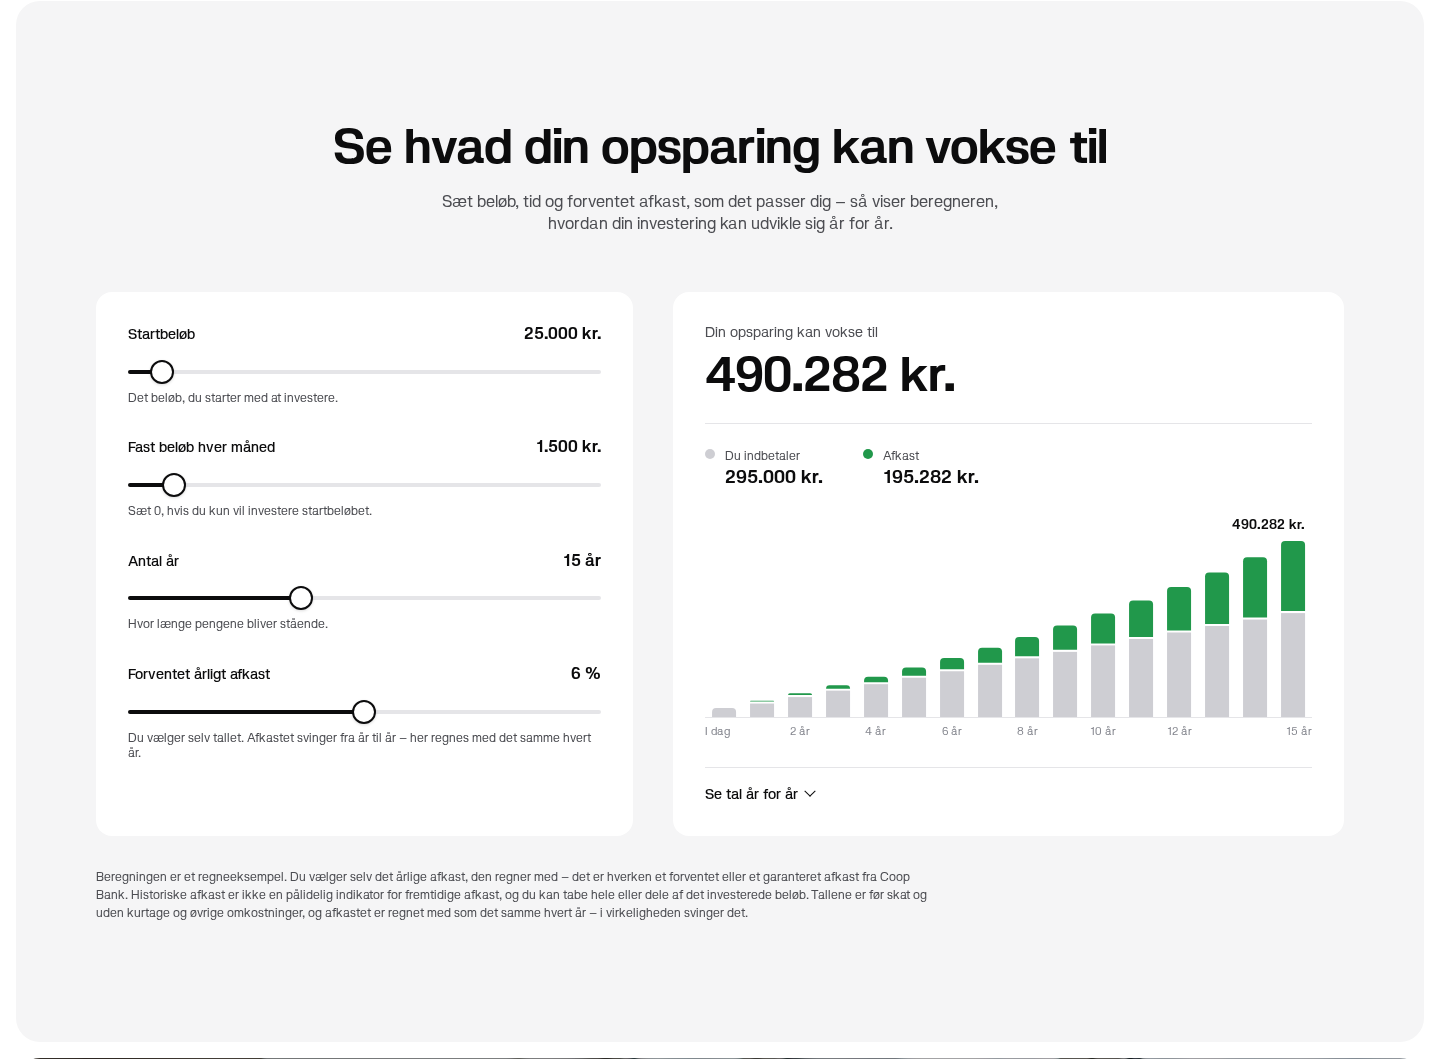
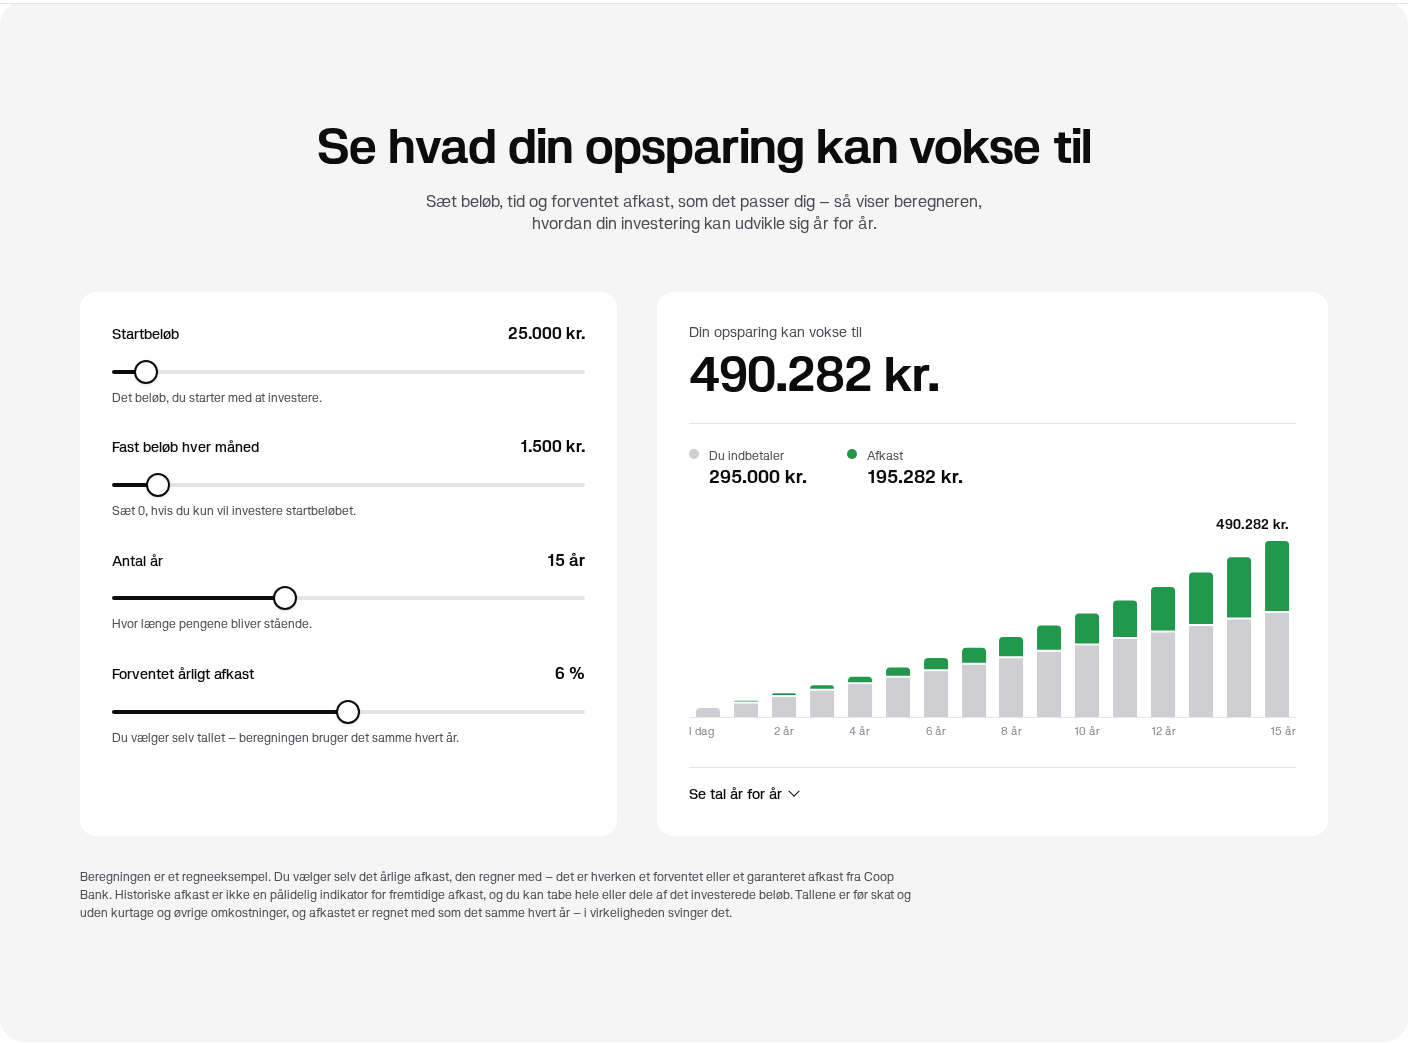
Giv beregneren samme luft som sidens øvrige sektioner
Sektionen brugte 0 0 16px - sidens tætteste afstand, tænkt til paneler der
skal støde op til hinanden. Den ligger nu på 96px 0 120px (64/80 på mobil),
som er den afstand coopbank.dk selv bruger, hvor sektionerne har plads om
sig, f.eks. "Download Coop Bank Investering".

Målt på den rigtige side: 112 px hvidt over panelet og 120 px under på
desktop, 80 px begge steder på mobil. Panelets egen indvendige polstring er
uændret, så den stadig matcher nabopanelet præcis.

Billederne i dokumentationen er taget om på den rigtige side med den nye
afstand.

Claude-Session: https://claude.ai/code/session_01UCfvjyKCTaD2EhHEWNgm67

diff --git a/investering/afkastberegner.html b/investering/afkastberegner.html
@@ -42,7 +42,8 @@
   --cbx-radius-card:16px;
   font-family:Porteron,Arial,sans-serif;
   color:var(--cbx-body);
-  padding:0 0 16px;
+  /* samme luft som sidens øvrige sektioner med plads om sig */
+  padding:96px 0 120px;
   -webkit-font-smoothing:antialiased;
 }
 .cbx-section *,.cbx-section *::before,.cbx-section *::after{box-sizing:border-box}
@@ -177,6 +178,7 @@
   .cbx-head{margin-bottom:40px}
 }
 @media screen and (max-width:767px){
+  .cbx-section{padding:64px 0 80px}
   .cbx-container{padding:0}
   .cbx-panel{padding:80px 16px}
   .cbx-card{padding:24px}

diff --git a/investering/README.md b/investering/README.md
@@ -84,6 +84,7 @@ stilarter, ikke gættet:
 | Overskrift | 48 px / 36 px på mobil, vægt 600, `letter-spacing −0.02em` |
 | Brødtekst | `#4c4d52` |
 | Container | max 1920 px, 16 px sidepadding — samme bredde som nabosektionerne |
+| Afstand om sektionen | 96/120 px, 64/80 px på mobil — sidens egen luftige sektionsafstand |
 
 Grafens to farver er brandfarver: afkast i `green-600 #21984b`, indbetalt i
 `neutral-200 #ceced3`. Parret er kontrolleret for farveblindhed (ΔE 24 protan,
@@ -114,6 +115,8 @@ Chromium via Playwright, både alene og indsat i en lokal kopi af den rigtige
   kontrolleret ved 0 %, uden månedlig indbetaling, ved 1 år og ved 0 i alle felter.
 - Panelet får præcis samme bredde som nabosektionen (1408 px desktop, 390 px mobil),
   og overskriften samme størrelse som sidens øvrige (48/36 px).
+- Luften om panelet er målt på den rigtige side: 112 px over og 120 px under på
+  desktop, 80 px begge steder på mobil.
 - Ingen vandret scroll ved 390 px. Ingen fejl i konsollen.
 - Tastede værdier over maksimum klippes. Meget lange beløb skrumper overskriften
   frem for at sprænge kortet.
